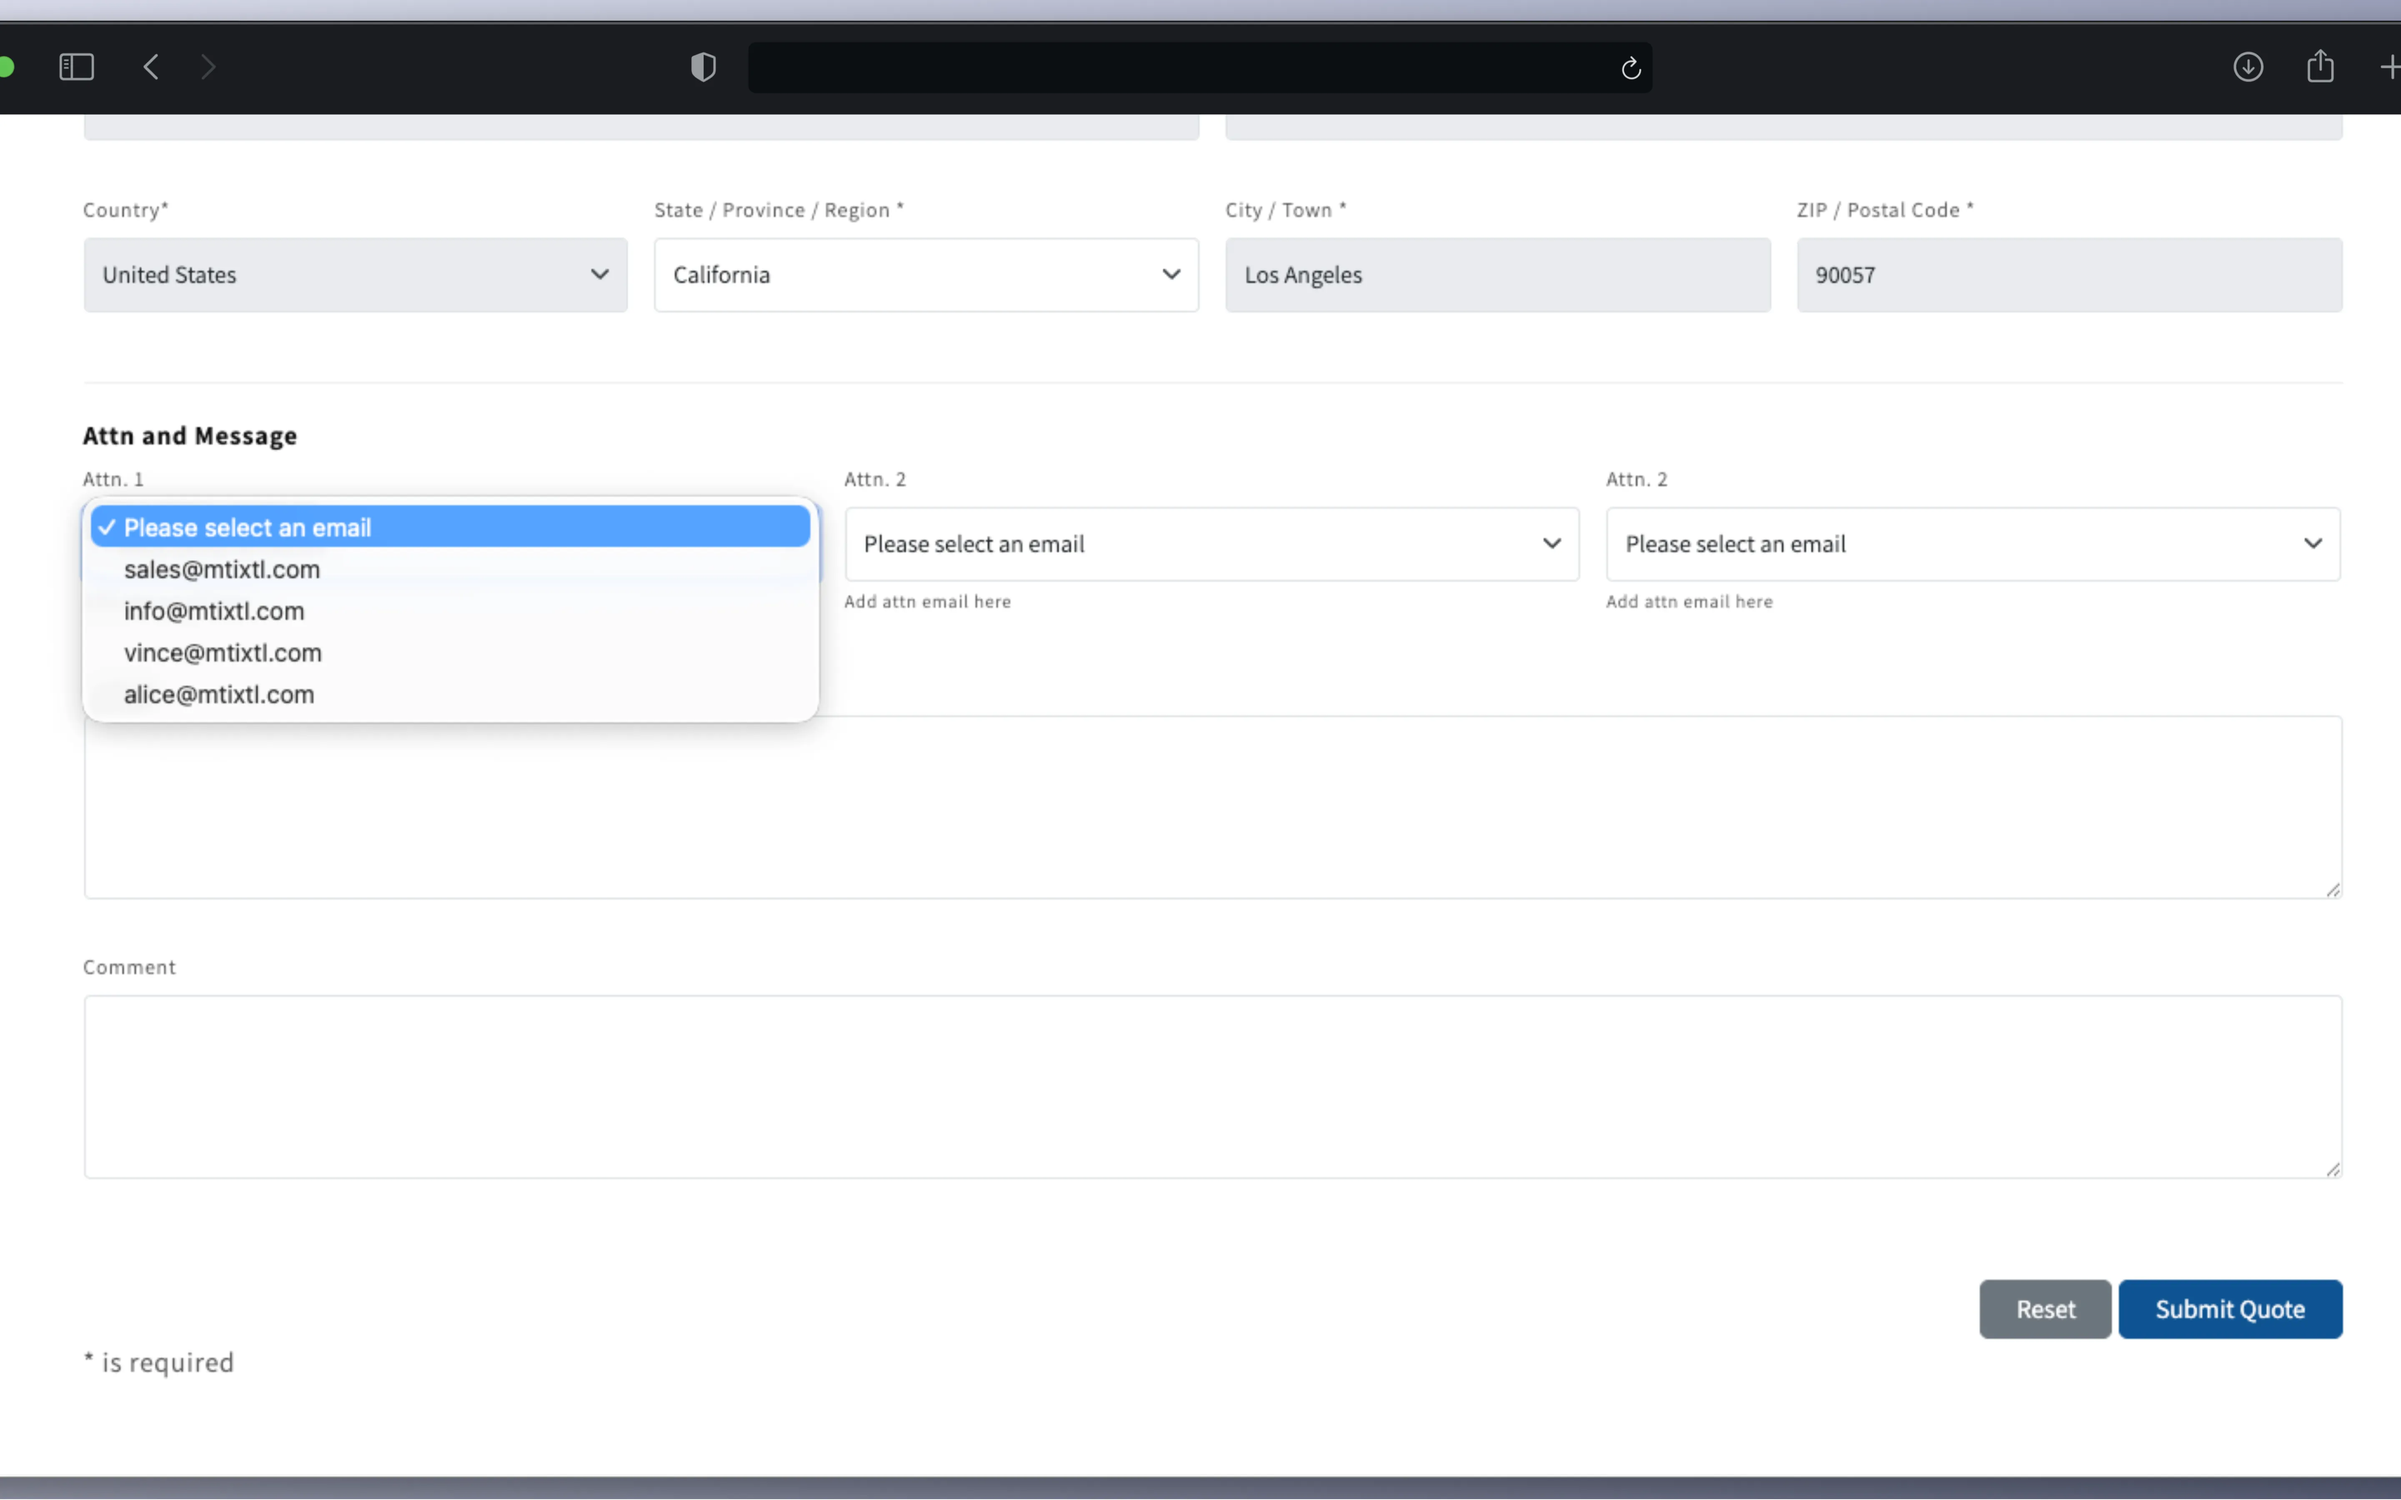
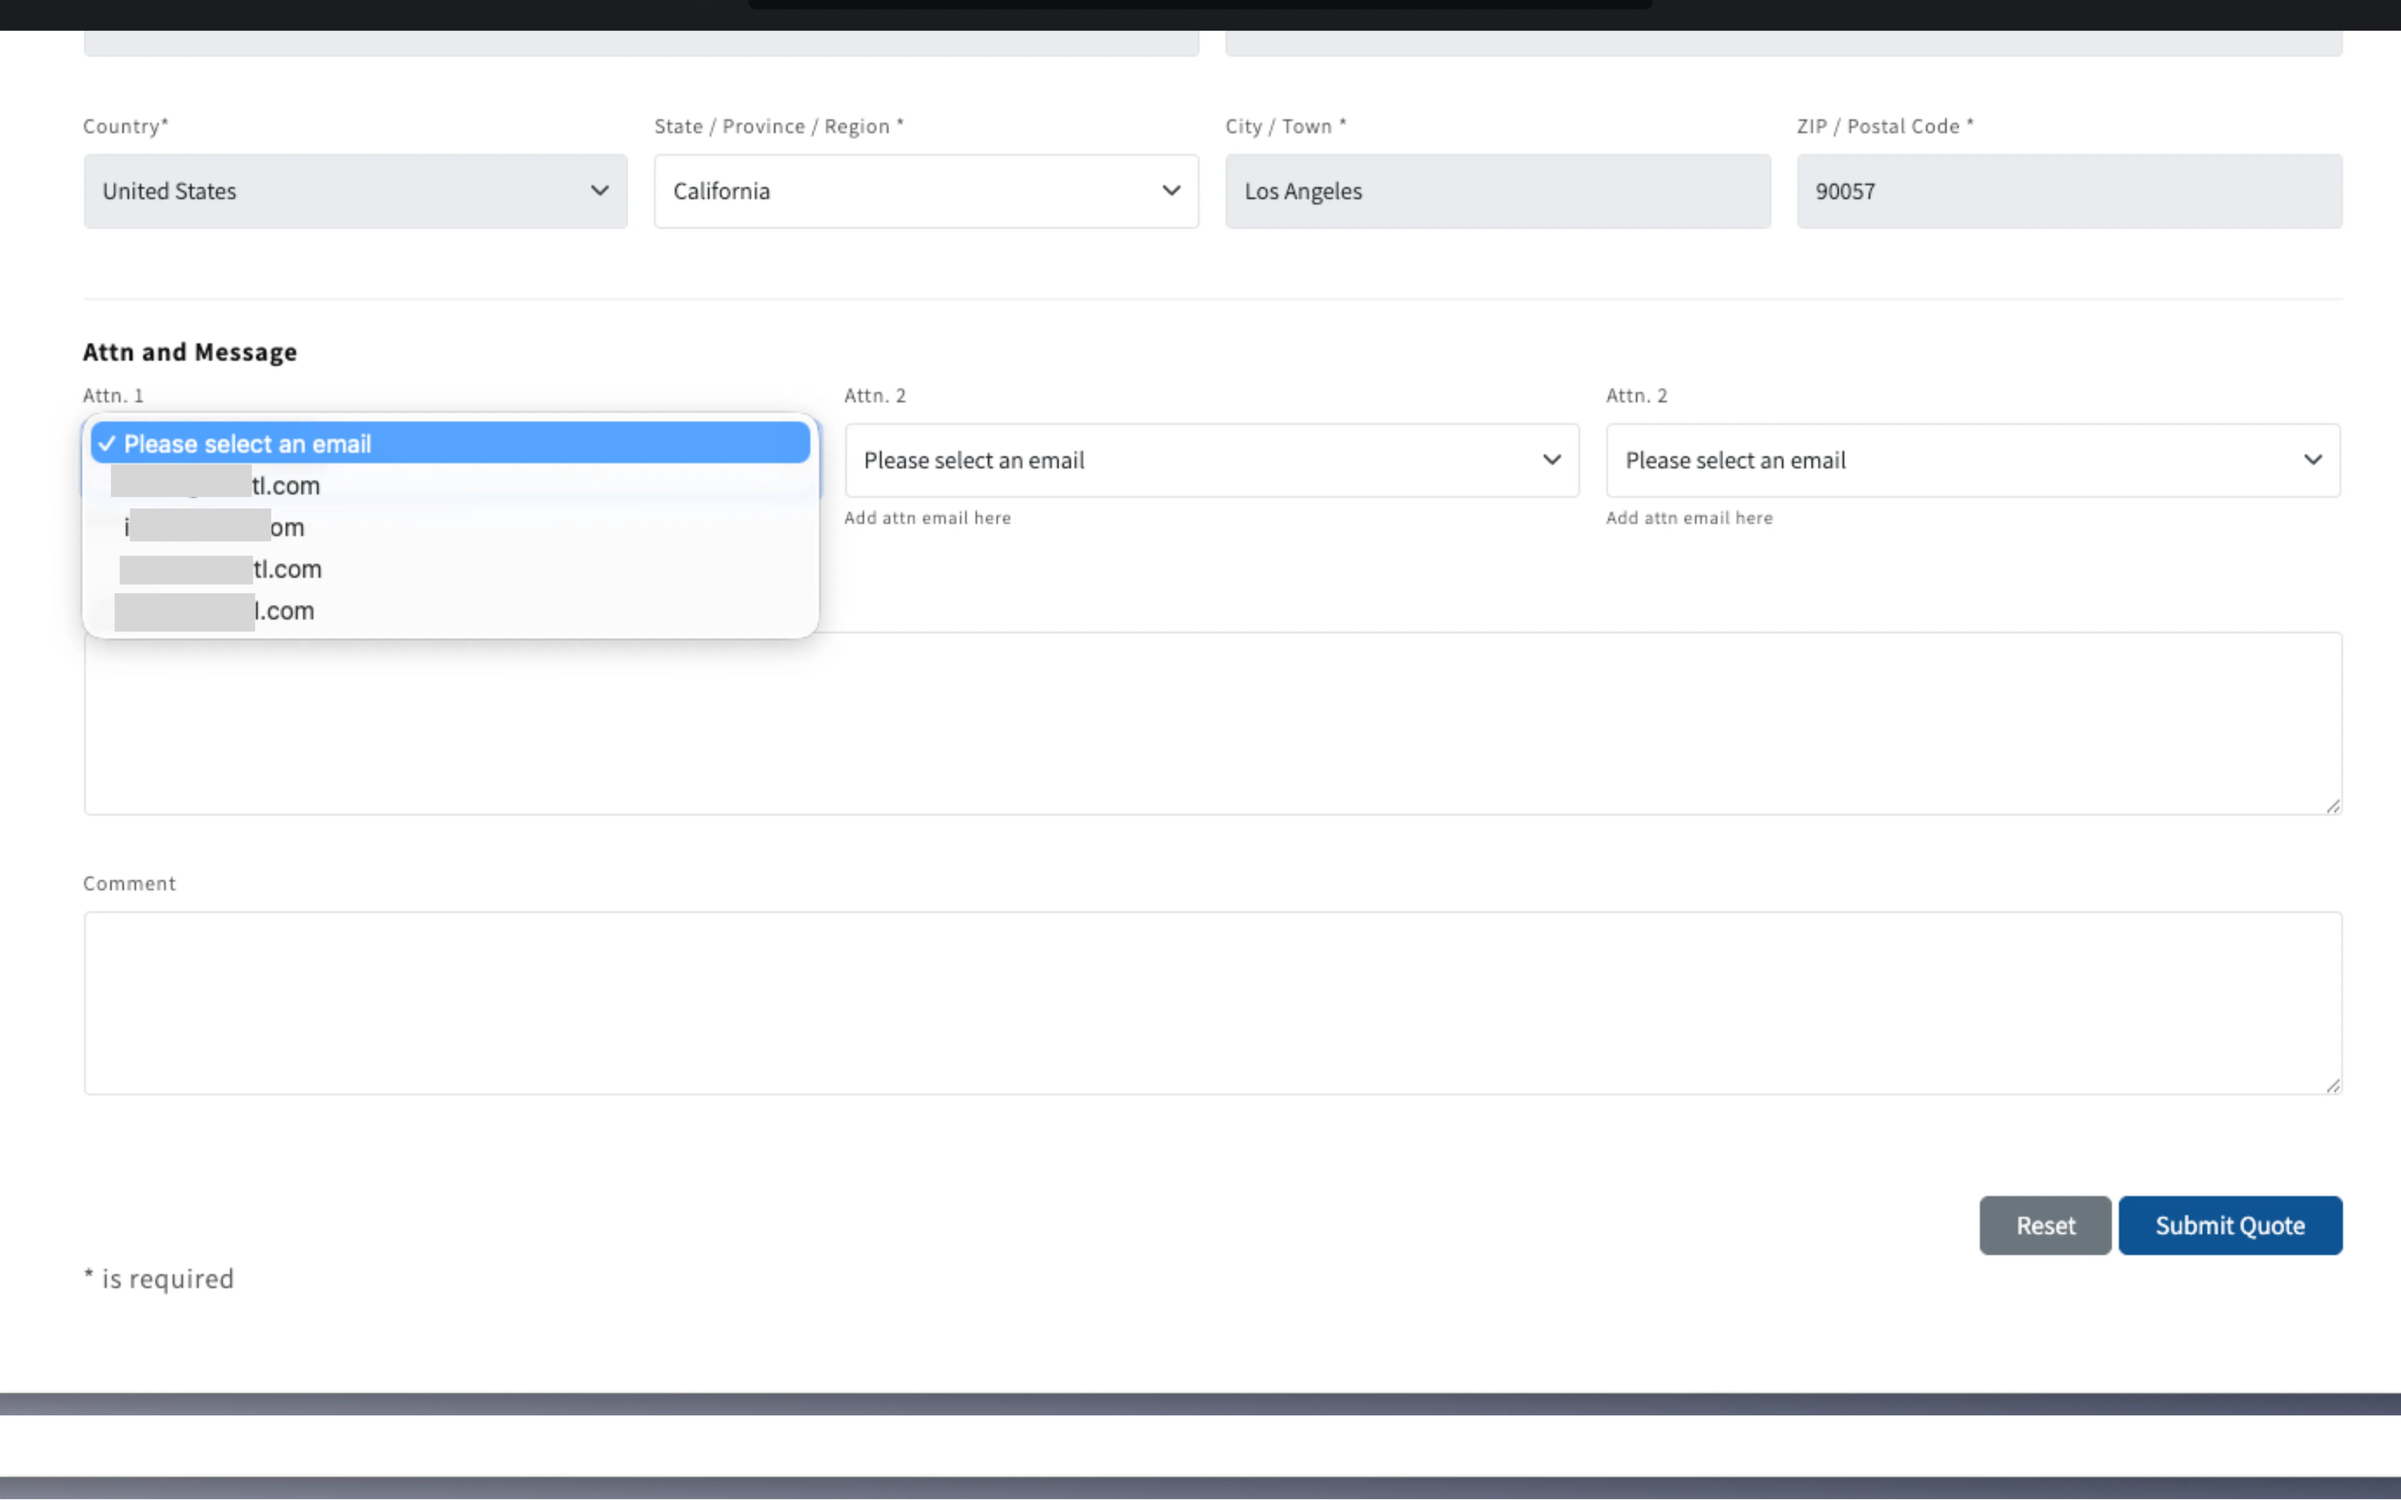
feat: improve accessibility and optimize images

diff --git a/src/components/ui/lightboxImage.tsx b/src/components/ui/lightboxImage.tsx
@@ -1,3 +1,4 @@
+"use client";
 import { useState, useEffect, useCallback } from "react";
 import { cn } from "@/lib/utils";
 import Image from "next/image";
@@ -9,6 +10,7 @@ interface LightboxImageProps {
   height?: number;
   className?: string;
   gif?: boolean;
+  priority?:boolean;
 }
 
 export function LightboxImage({
@@ -17,6 +19,7 @@ export function LightboxImage({
   width = 600,
   height = 400,
   className = "",
+  priority = false,
   gif = false,
 }: LightboxImageProps) {
   const [open, setOpen] = useState(false);
@@ -46,6 +49,8 @@ export function LightboxImage({
         unoptimized={gif}
         className={`${className} cursor-zoom-in w-full h-full object-cover`}
         onClick={() => setOpen(true)}
+        fetchPriority={priority ? "high" : undefined}
+        loading={priority ? "eager" : undefined}
       />
 
       {open && (

diff --git a/src/app/projects/b2b-quote/page.tsx b/src/app/projects/b2b-quote/page.tsx
@@ -451,7 +451,7 @@ export default function B2BQuotePage() {
         </FadeIn>
         <FadeIn>
           <ProjectImage
-            src="/images/projects/b2b-quote/admin-detail.webp"
+            src="/images/projects/b2b-quote/admin-detail-v2.webp"
             alt="Quote Detail command center"
             caption="Quote Detail: product info, customer details, staff assignment, email — all on one page"
           />

diff --git a/src/components/ui/ProjectImage.tsx b/src/components/ui/ProjectImage.tsx
@@ -17,6 +17,7 @@ export function ProjectImage({
   alt,
   caption,
   gif = false,
+  priority=false
 }: ProjectImageProps) {
   return (
     <figure className="my-8">
@@ -27,6 +28,7 @@ export function ProjectImage({
           width={1200}
           height={675}
           gif={gif}
+          priority={priority}
         />
       </div>
       {caption && (
